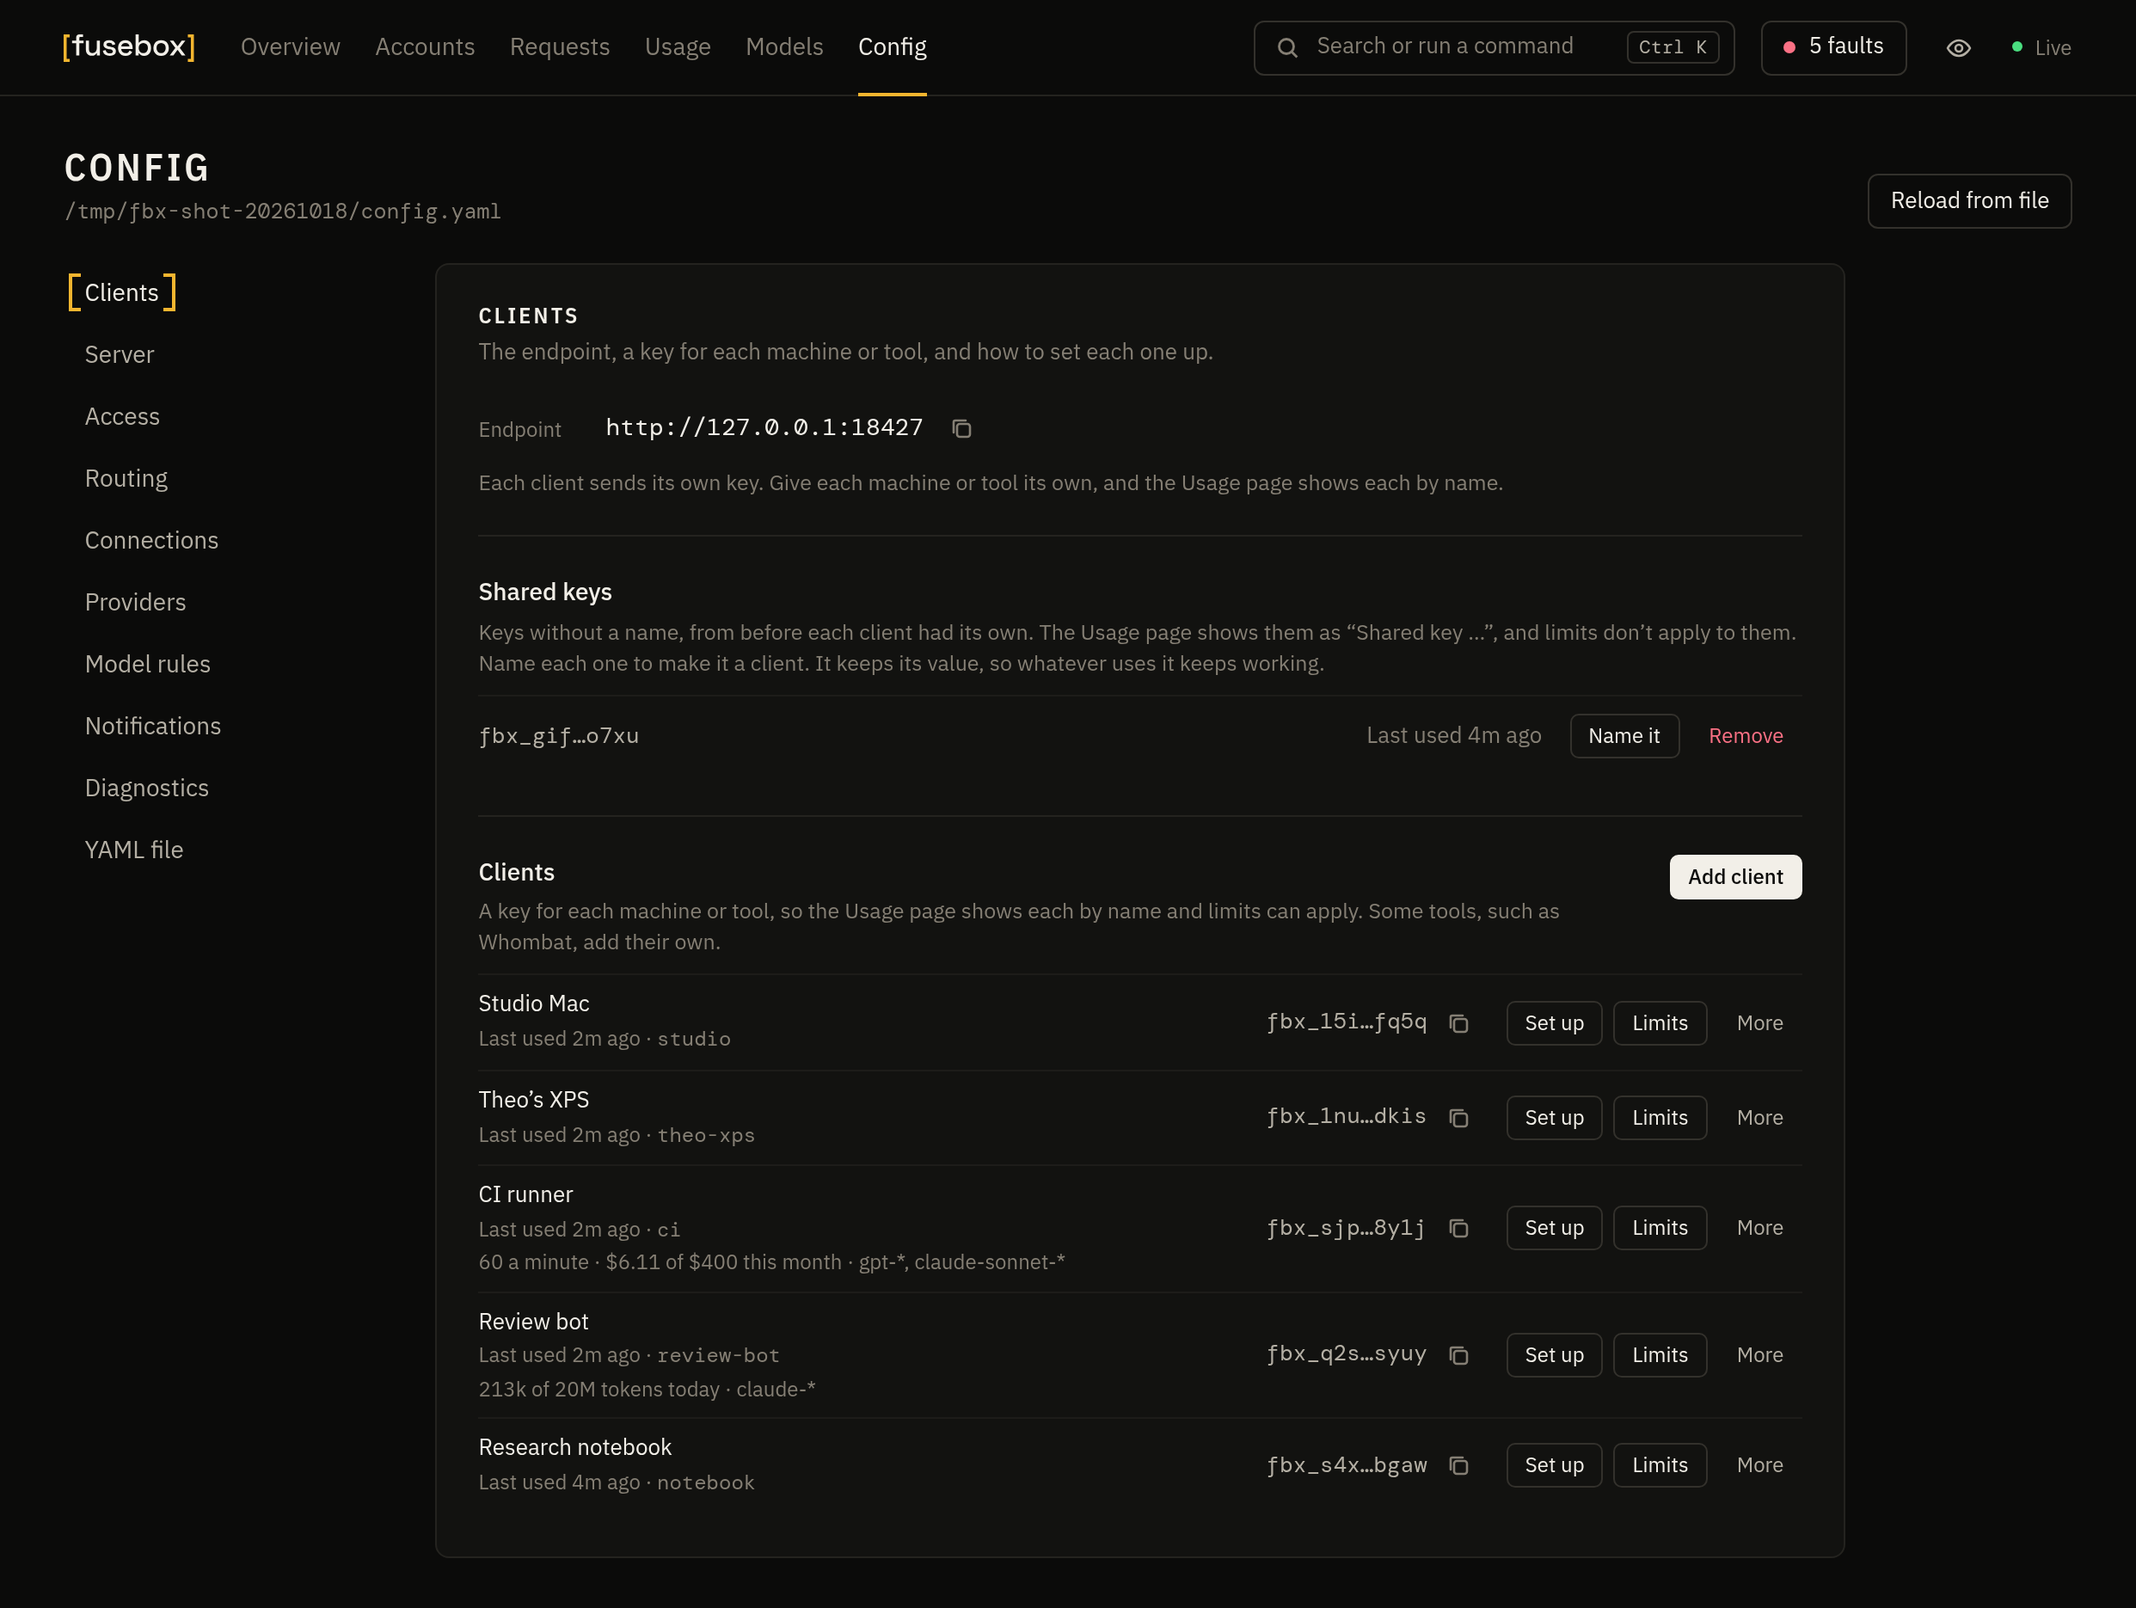
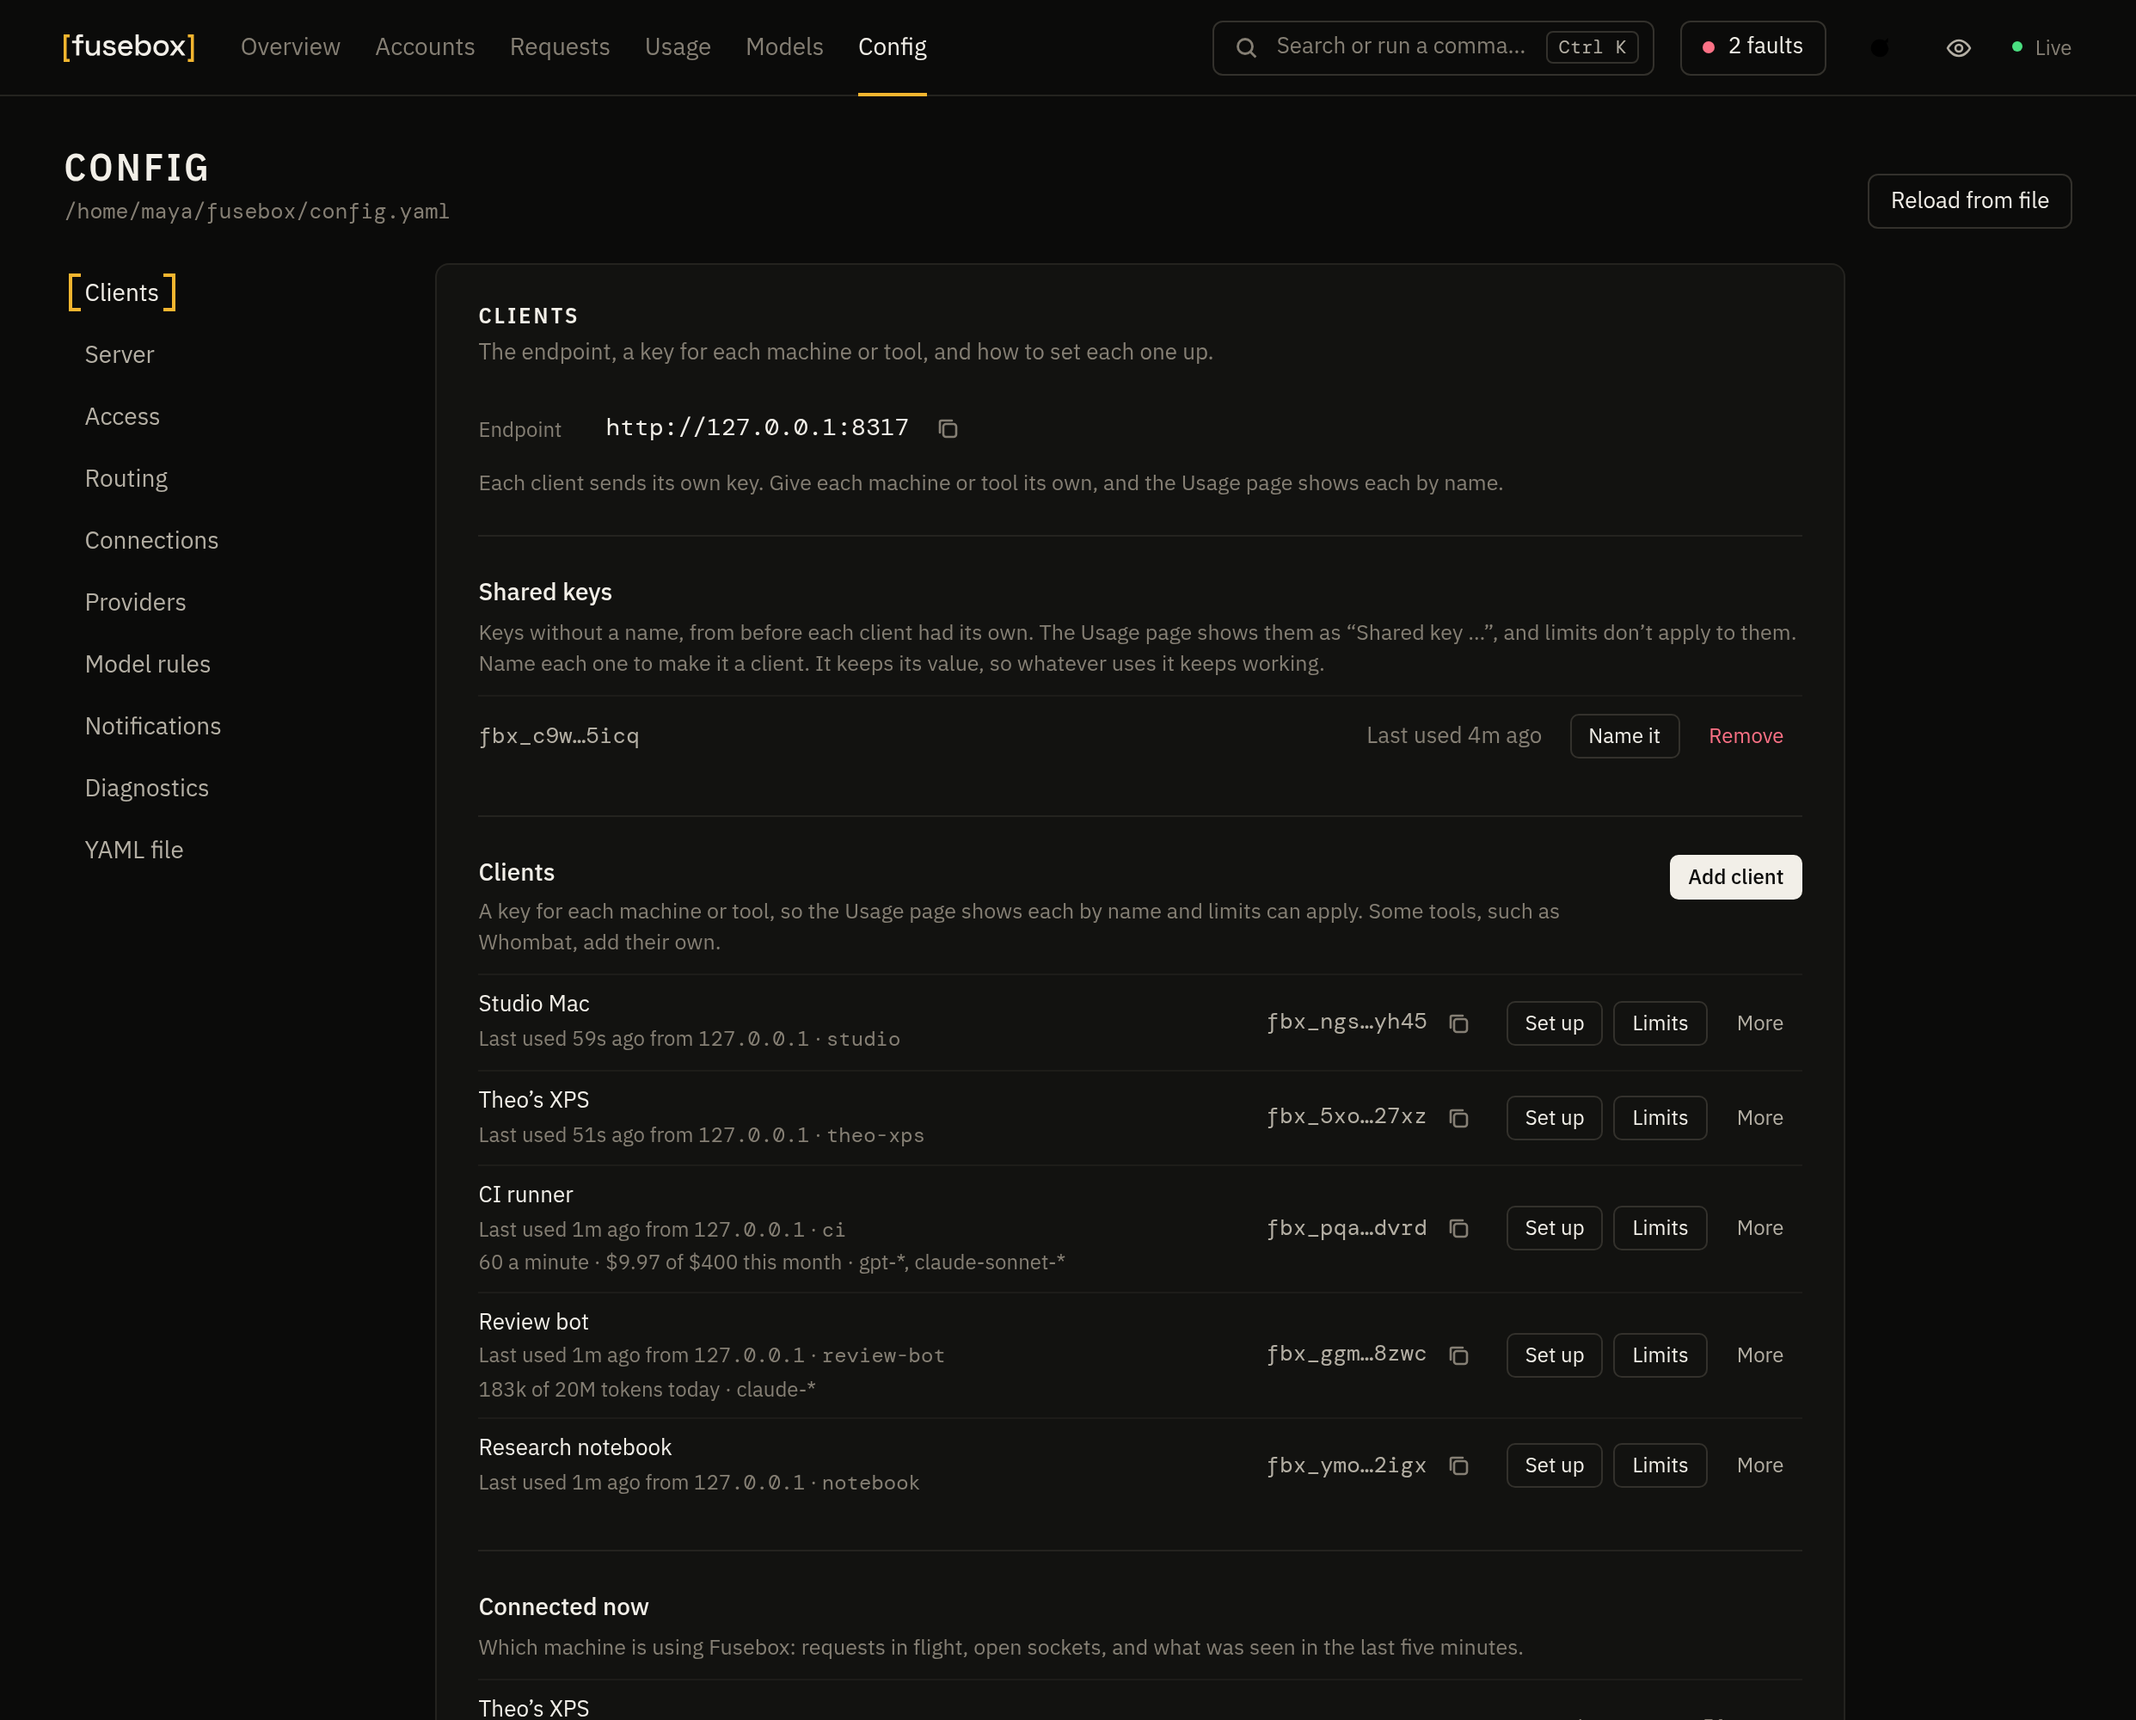
Retake the README screenshots for v0.16.0
Sample data only. New: Ultra and Pro 200 plans, Fable rows, the combined
weekly forecast, and a shot of the output-speed panel.

diff --git a/README.md b/README.md
@@ -125,11 +125,17 @@ Everything is served from the binary at `/`, with no external requests.
 </tr>
 <tr>
 <td valign="top"><img src="assets/screenshots/requests.png" alt="Live request log with one row expanded to show why the request went to its account"></td>
-<td valign="top"><img src="assets/screenshots/usage.png" alt="Usage page: a week of estimated cost by day and provider, top clients by name and each model's output speed"></td>
+<td valign="top"><img src="assets/screenshots/usage.png" alt="Usage page: a week of estimated cost by day and provider"></td>
 </tr>
 <tr>
 <td valign="top"><b>Requests:</b> every request as it happens. Click one to see why it went to that account, which key sent it and from where.</td>
-<td valign="top"><b>Usage:</b> what your traffic would cost at API list prices, by day, model, account and client, and how fast each model answers.</td>
+<td valign="top"><b>Usage:</b> what your traffic would cost at API list prices, by day, provider, model, account and client.</td>
+</tr>
+<tr>
+<td colspan="2"><img src="assets/screenshots/usage-speed.png" alt="Output speed by model: tokens a second and time to first token per model, Codex Fast and Standard apart, and speed by day"></td>
+</tr>
+<tr>
+<td colspan="2"><b>How fast each model answers:</b> output speed and time to first token per model, from the calls Fusebox served, with Codex Fast and Standard apart.</td>
 </tr>
 <tr>
 <td valign="top"><img src="assets/screenshots/clients.png" alt="Config, Clients: the endpoint, a shared key from before waiting to be named, and five clients with their own keys, last use and limits"></td>
